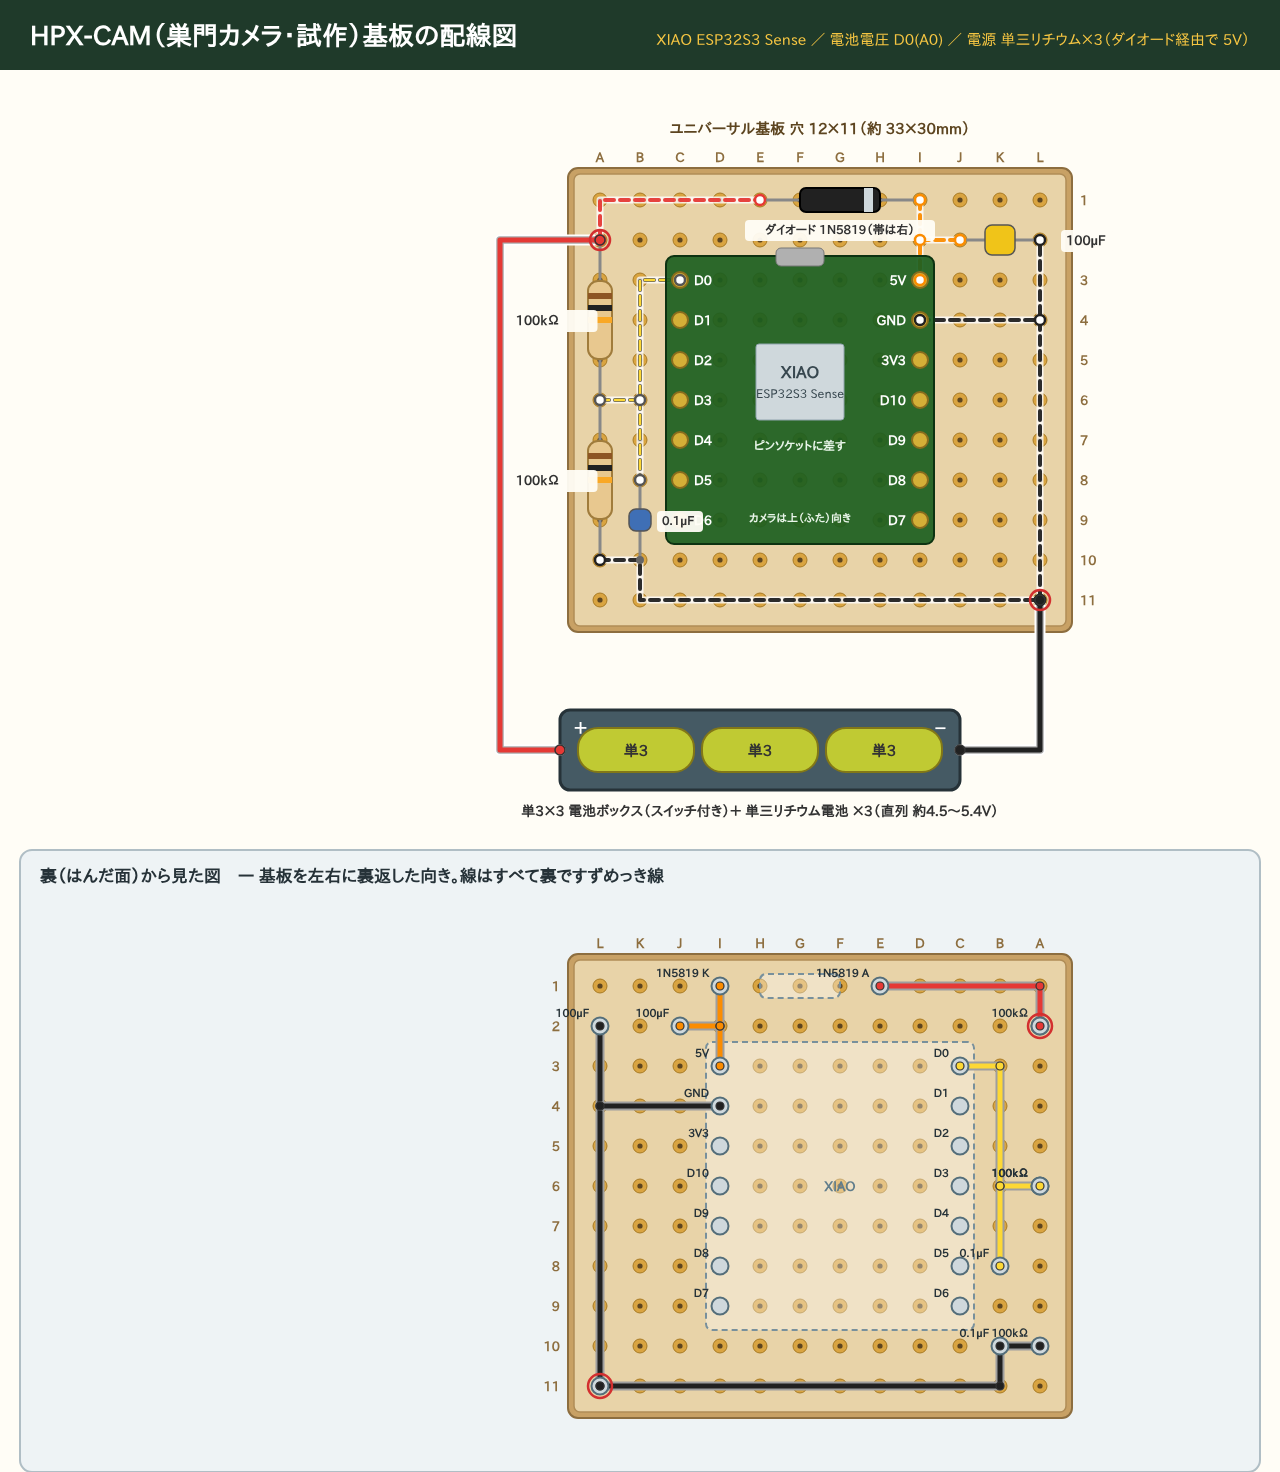
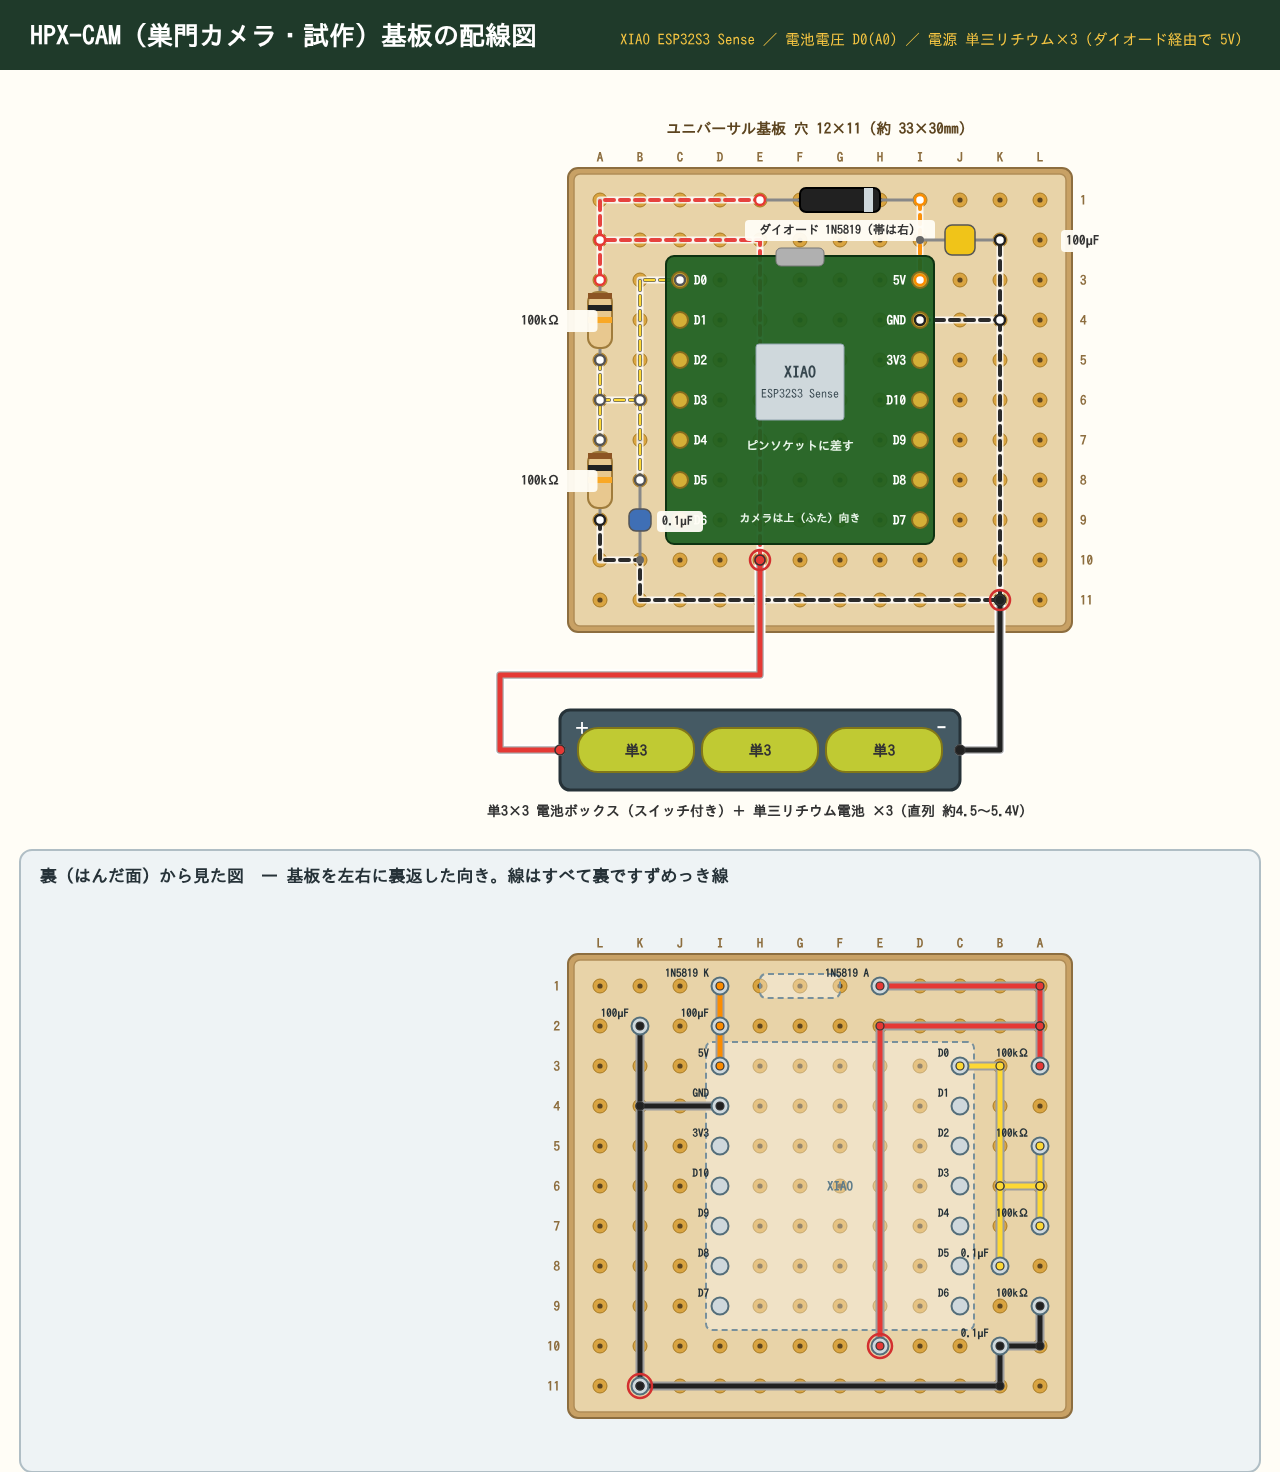
HPX-CAM の配線図を変更 (TARO 指定)
- 100µF を I2・K2 に、−の列を K 列に
- 100kΩ を 3穴 (A3〜A5、A7〜A9) に
- 電池−は K11、電池＋は E10 からチップの下を E2 → A2 へ

Claude-Session: https://claude.ai/code/session_01LCC9B3VoVWL7WDxMCJTnsZ

diff --git a/site/device-cam.html b/site/device-cam.html
@@ -252,11 +252,11 @@
       </figure>
       <div class="wtab"><h3>つなぐ線（穴の位置は 列の文字＋行の数字）</h3><div class="scroll"><table>
         <thead><tr><th>線</th><th>どこから（穴）</th><th>どこへ（穴）</th><th>役目</th></tr></thead>
-        <tbody><tr><td class="wc"><span class="sw" style="background:#e53935"></span>赤</td><td>電池ボックスの＋（A2 に直接はんだ付け）</td><td>A2 → A1 → E1（ダイオードのアノード）</td><td>電池＋。A2 は 100kΩ の上の足も</td></tr><tr><td class="wc"><span class="sw" style="background:#fb8c00"></span>橙</td><td>ダイオードのカソード（I1）</td><td>I1 → I2 → I3（XIAO 5V）、I2 → J2（100µF）</td><td>ダイオードを通った電池を 5V 端子へ</td></tr><tr><td class="wc"><span class="sw" style="background:#fdd835"></span>黄</td><td>100kΩ と 100kΩ の間（A6）</td><td>A6 → B6 → B3 → C3（XIAO D0）、B6 → B8（0.1µF）</td><td>電池の電圧を半分にして読む点</td></tr><tr><td class="wc"><span class="sw" style="background:#212121"></span>黒</td><td>下の 100kΩ（A10）</td><td>A10 → B10（0.1µF）→ B11 → L11</td><td>電池の−（L11 に直接はんだ付け）</td></tr><tr><td class="wc"><span class="sw" style="background:#212121"></span>黒</td><td>XIAO GND（I4）</td><td>I4 → L4、L11 → L4 → L2（100µF）</td><td>−の列</td></tr></tbody>
+        <tbody><tr><td class="wc"><span class="sw" style="background:#e53935"></span>赤</td><td>電池ボックスの＋（E10 に直接はんだ付け）</td><td>E10 → E2（チップの下を通す）→ A2 → A1 → E1（ダイオードのアノード）、A2 → A3（100kΩ）</td><td>電池＋</td></tr><tr><td class="wc"><span class="sw" style="background:#fb8c00"></span>橙</td><td>ダイオードのカソード（I1）</td><td>I1 → I2（100µF）→ I3（XIAO 5V）</td><td>ダイオードを通った電池を 5V 端子へ</td></tr><tr><td class="wc"><span class="sw" style="background:#fdd835"></span>黄</td><td>100kΩ と 100kΩ の間（A5・A7）</td><td>A5 → A6 → A7、A6 → B6 → B3 → C3（XIAO D0）、B6 → B8（0.1µF）</td><td>電池の電圧を半分にして読む点</td></tr><tr><td class="wc"><span class="sw" style="background:#212121"></span>黒</td><td>下の 100kΩ（A9）</td><td>A9 → A10 → B10（0.1µF）→ B11 → K11</td><td>電池の−（K11 に直接はんだ付け）</td></tr><tr><td class="wc"><span class="sw" style="background:#212121"></span>黒</td><td>XIAO GND（I4）</td><td>I4 → K4、K11 → K4 → K2（100µF）</td><td>−の列</td></tr></tbody>
       </table></div></div>
       <div class="wtab"><h3>部品の置き場所</h3><div class="scroll"><table>
         <thead><tr><th>部品</th><th>数</th><th>置き場所・メモ</th></tr></thead>
-        <tbody><tr><td>Seeed Studio XIAO ESP32S3 Sense（カメラ OV3660・microSD 枠付き。付属の外付けアンテナを付ける。秋月電子 2,660円）</td><td>1</td><td>C3〜I9 のソケットに差す。USB-C を上に向ける</td></tr><tr><td>ピンヘッダ 7ピン×2（XIAO 付属）＋ 分割ロングピンソケット 7ピン×2（基板側）</td><td>1組</td><td>C3〜C9・I3〜I9</td></tr><tr><td>（交換用・任意）OV5640 カメラ（XIAO ESP32S3 Sense 用、自動ピント）</td><td>1</td><td>近い巣門にピントを合わせたいとき。カメラの差し込み口で付け替える</td></tr><tr><td>microSD カード 32GB 以下（FAT32。例: LAZOS 8GB）</td><td>1</td><td>Sense 基板の枠に差す。写真をためる</td></tr><tr><td>ショットキーバリアダイオード 40V1A 1N5819（秋月電子 100円/10本）</td><td>1</td><td>E1（アノード）〜I1（カソード、帯の側）。寝かせて付ける</td></tr><tr><td>金属皮膜抵抗 100kΩ 1%</td><td>2</td><td>A2〜A6、A6〜A10（縦に寝かせて付ける）</td></tr><tr><td>積層セラミックコンデンサー 0.1µF 50V C0G 5mm</td><td>1</td><td>B8・B10（測る点のノイズよけ）</td></tr><tr><td>絶縁ラジアルリード型積層セラミックコンデンサー 100µF 6.3V 5mm</td><td>1</td><td>J2・L2（Wi-Fi で送る瞬間の電圧の下がりよけ）</td></tr><tr><td>単3×3 電池ボックス（リード線・フタ・スイッチ付、秋月電子 160円）／ 単三リチウム電池</td><td>1／3</td><td>＋の線を A2、−の線を L11 にはんだ付け</td></tr><tr><td>ユニバーサル基板（穴 12×11 以上）・すずめっき線</td><td>1</td><td>大きい基板を切って使ってもよい</td></tr><tr><td>ケース タカチ BCAP091207T（透明ふた、内寸 66×96×56.6mm。モノタロウ 1,398円）</td><td>1</td><td>カメラをふたに近づける</td></tr><tr><td>ポール取付金具 タカチ SSK-S1（モノタロウ 558円）</td><td>1</td><td>ケースを杭やポールに留める</td></tr><tr><td>屋外用ルーフ タカチ BRF-90G（モノタロウ 539円）</td><td>1</td><td>ケースの上に付ける雨・日よけ（中が熱くなりにくい）</td></tr><tr><td>乾燥剤（小袋）</td><td>少し</td><td>くもり止め</td></tr></tbody>
+        <tbody><tr><td>Seeed Studio XIAO ESP32S3 Sense（カメラ OV3660・microSD 枠付き。付属の外付けアンテナを付ける。秋月電子 2,660円）</td><td>1</td><td>C3〜I9 のソケットに差す。USB-C を上に向ける</td></tr><tr><td>ピンヘッダ 7ピン×2（XIAO 付属）＋ 分割ロングピンソケット 7ピン×2（基板側）</td><td>1組</td><td>C3〜C9・I3〜I9</td></tr><tr><td>（交換用・任意）OV5640 カメラ（XIAO ESP32S3 Sense 用、自動ピント）</td><td>1</td><td>近い巣門にピントを合わせたいとき。カメラの差し込み口で付け替える</td></tr><tr><td>microSD カード 32GB 以下（FAT32。例: LAZOS 8GB）</td><td>1</td><td>Sense 基板の枠に差す。写真をためる</td></tr><tr><td>ショットキーバリアダイオード 40V1A 1N5819（秋月電子 100円/10本）</td><td>1</td><td>E1（アノード）〜I1（カソード、帯の側）。寝かせて付ける</td></tr><tr><td>金属皮膜抵抗 100kΩ 1%</td><td>2</td><td>A3〜A5、A7〜A9（縦に寝かせて付ける）</td></tr><tr><td>積層セラミックコンデンサー 0.1µF 50V C0G 5mm</td><td>1</td><td>B8・B10（測る点のノイズよけ）</td></tr><tr><td>絶縁ラジアルリード型積層セラミックコンデンサー 100µF 6.3V 5mm</td><td>1</td><td>I2・K2（Wi-Fi で送る瞬間の電圧の下がりよけ）</td></tr><tr><td>単3×3 電池ボックス（リード線・フタ・スイッチ付、秋月電子 160円）／ 単三リチウム電池</td><td>1／3</td><td>＋の線を E10、−の線を K11 にはんだ付け</td></tr><tr><td>ユニバーサル基板（穴 12×11 以上）・すずめっき線</td><td>1</td><td>大きい基板を切って使ってもよい</td></tr><tr><td>ケース タカチ BCAP091207T（透明ふた、内寸 66×96×56.6mm。モノタロウ 1,398円）</td><td>1</td><td>カメラをふたに近づける</td></tr><tr><td>ポール取付金具 タカチ SSK-S1（モノタロウ 558円）</td><td>1</td><td>ケースを杭やポールに留める</td></tr><tr><td>屋外用ルーフ タカチ BRF-90G（モノタロウ 539円）</td><td>1</td><td>ケースの上に付ける雨・日よけ（中が熱くなりにくい）</td></tr><tr><td>乾燥剤（小袋）</td><td>少し</td><td>くもり止め</td></tr></tbody>
       </table></div></div>
       <div class="wnote"><h3>注意</h3><ul><li>上の図は部品を載せる面（表）から見たところ。部品はすべて表から差し、足を裏ではんだ付けする。線はすべて裏のすずめっき線。</li><li>下の「裏から見た図」が実際に配線する向き（左右が逆）。裏の線どうしは交わらない。</li><li>電池は ダイオード 1N5819 を通して XIAO の「5V」端子へ入れる（USB をつないだとき、USB の 5V が電池へ流れ込まないように）。</li><li>XIAO 裏の「BAT」パッドは充電式リチウムイオン電池用。乾電池は絶対につながない。</li><li>電池の電圧は ダイオードの前で 100kΩ・100kΩ で半分にして D0(A0) で読む（新品 5.4V で 2.7V）。この抵抗には いつも約27µA 流れる（1日 約0.65mAh）。</li><li>D8・D9・D10 は Sense 基板の microSD が使うので、ほかの部品につながない。</li><li>USB で書き込むときは、電池ボックスのスイッチを切る（ダイオードがあるので切り忘れても壊れにくいが、念のため）。</li><li>付属の Wi-Fi アンテナ（シール状）は XIAO の U.FL に差し、ケースの壁（金属のそば以外）に貼る。</li><li>ケースの中で、カメラ（Sense 基板）をふたのすぐ下に来るようにする（ふたの反射よけ）。</li><li>電池のもち（10分おきに撮影・未実測）: 24時間で 約3週間〜1か月半、昼12時間だけで 約1〜3か月。眠り中の電流しだい。</li><li>まだ組んで確かめていない。XIAO ESP32S3 Sense の眠り中の電流、1N5819 を入れたときの Wi-Fi 送信中の電圧は実物で測る。</li></ul></div>
       <div class="soonbox">組み立ての手順は、準備ができしだい掲載します。</div>

diff --git a/hardware/wiring/gen_pcb.py b/hardware/wiring/gen_pcb.py
@@ -996,7 +996,8 @@ def res_flat(a, b, label, bands, lpos, anchor="middle"):
     rec_pin(x1, y1, label); rec_pin(x2, y2, label)
     cx, cy = (x1 + x2) / 2, (y1 + y2) / 2
     horiz = y1 == y2
-    bw, bh = (78, 24) if horiz else (24, 78)
+    ln = min(78, abs(x2 - x1) + abs(y2 - y1) - 24)   # 足の間 2穴 (3穴に差す) のときは本体を短く (TARO 2026-11-21 HPX-CAM)
+    bw, bh = (ln, 24) if horiz else (24, ln)
     s.top.append(f'<line x1="{x1}" y1="{y1}" x2="{x2}" y2="{y2}" stroke="#888" stroke-width="3"/>')
     s.top.append(f'<rect x="{cx-bw/2}" y="{cy-bh/2}" width="{bw}" height="{bh}" rx="10" fill="#e8c88f" stroke="#a07c3c" stroke-width="2"/>')
     for i, c in enumerate(bands):
@@ -1434,23 +1435,26 @@ for x, y in ((x1, y1), (x2, y2)):
 rec_part((x1 + x2) / 2 - 40, y1 - 12, 80, 24, "")
 tag((x1 + x2) / 2, y1 + 34, "ダイオード 1N5819（帯は右）", 12, "middle", w=190)
 
-res_flat("A2", "A6", "100kΩ", ["#8d5524", "#212121", "#f9a825"], (OX - 40, H(0, R(4))[1] + 5), "end")
-res_flat("A6", "A10", "100kΩ", ["#8d5524", "#212121", "#f9a825"], (OX - 40, H(0, R(8))[1] + 5), "end")
+# TARO 2026-11-21: 100kΩ を 3穴 (A3〜A5・A7〜A9) に、100µF を I2・K2 に、−の列を K に、電池＋は E10・電池−は K11 から
+res_flat("A3", "A5", "100kΩ", ["#8d5524", "#212121", "#f9a825"], (OX - 40, H(0, R(4))[1] + 5), "end")
+res_flat("A7", "A9", "100kΩ", ["#8d5524", "#212121", "#f9a825"], (OX - 40, H(0, R(8))[1] + 5), "end")
 cap_flat(s, hole("B8"), hole("B10"), "0.1µF")
 tag(H(Lc("B"), 0)[0] + 22, H(0, R(9))[1] + 5, "0.1µF", 12, "start", w=46)
-cap_flat(s, hole("J2"), hole("L2"), "100µF", True)
+cap_flat(s, hole("I2"), hole("K2"), "100µF", True)
 tag(H(Lc("L"), 0)[0] + 26, H(0, R(2))[1] + 5, "100µF", w=52)
 
-w("red",    "A2", "A1", "E1")                      # 電池＋ → ダイオードのアノード（A2 で 100kΩ にも）
-w("orange", "I1", "I2", "I3")                      # ダイオードのカソード → XIAO 5V
-w("orange", "I2", "J2")                            # → 100µF
+w("red",    "E10", "E2", "A2")                     # 電池＋（E10）→ チップの下を通って E2 → A2
+w("red",    "A2", "A1", "E1")                      # → ダイオードのアノード
+w("red",    "A2", "A3")                            # → 上の 100kΩ
+w("orange", "I1", "I2", "I3")                      # ダイオードのカソード → XIAO 5V（I2 は 100µF の足）
+w("yellow", "A5", "A6", "A7")                      # 100kΩ と 100kΩ の間
 w("yellow", "A6", "B6", "B3", "C3")                # 測る点 → XIAO D0(A0)
 w("yellow", "B6", "B8")                            # → 0.1µF
-w("black",  "A10", "B10", "B11", "L11")            # 100kΩ・0.1µF の下 → 電池−
-w("black",  "L11", "L4", "L2")                     # −の列 → 100µF
-w("black",  "I4", "L4")                            # XIAO GND
+w("black",  "A9", "A10", "B10", "B11", "K11")      # 100kΩ・0.1µF の下 → 電池−
+w("black",  "K11", "K4", "K2")                     # −の列 → 100µF
+w("black",  "I4", "K4")                            # XIAO GND
 
-# 電池ボックス（単3×3、スイッチ付き）。＋の線を A2、−の線を L11 に直接はんだ付け
+# 電池ボックス（単3×3、スイッチ付き）。＋の線を E10、−の線を K11 に直接はんだ付け
 bx, by = OX - 40, OY + 10 * P + 110
 s.rect(bx, by, 400, 80, "#455a64", "#263238", 10, 3)
 for i in range(3):
@@ -1459,19 +1463,20 @@ for i in range(3):
 s.text(bx + 14, by + 24, "＋", 16, "start", "bold", "#fff")
 s.text(bx + 386, by + 24, "−", 18, "end", "bold", "#fff")
 s.text(bx + 200, by + 106, "単3×3 電池ボックス（スイッチ付き）＋ 単三リチウム電池 ×3（直列 約4.5〜5.4V）", 14, "middle", "bold")
-ta, tl = H(*hole("A2")), H(*hole("L11"))
-s.wire([(bx, by + 40), (bx - 60, by + 40), (bx - 60, ta[1]), ta], "red")
-s.wire([(bx + 400, by + 40), (tl[0], by + 40), tl], "black")
-solder_mark(s, *hole("A2")); solder_mark(s, *hole("L11"))
+ta, tl = H(*hole("E10")), H(*hole("K11"))
+yr = by - 35   # 基板と電池ボックスの間で横へ
+s.wire([(bx, by + 40), (bx - 60, by + 40), (bx - 60, yr), (ta[0], yr), ta], "red")
+s.wire([(bx + 400, by + 40), (bx + 440, by + 40), (bx + 440, yr), (tl[0], yr), tl], "black")
+solder_mark(s, *hole("E10")); solder_mark(s, *hole("K11"))
 
 yb = back_section(s, by + 140, "HPX-CAM_pcb.svg")
 y = table(s, 60, yb + 40, [
     ["線", "どこから（穴）", "どこへ（穴）", "役目"],
-    ["red", "電池ボックスの＋（A2 に直接はんだ付け）", "A2 → A1 → E1（ダイオードのアノード）", "電池＋。A2 は 100kΩ の上の足も"],
-    ["orange", "ダイオードのカソード（I1）", "I1 → I2 → I3（XIAO 5V）、I2 → J2（100µF）", "ダイオードを通った電池を 5V 端子へ"],
-    ["yellow", "100kΩ と 100kΩ の間（A6）", "A6 → B6 → B3 → C3（XIAO D0）、B6 → B8（0.1µF）", "電池の電圧を半分にして読む点"],
-    ["black", "下の 100kΩ（A10）", "A10 → B10（0.1µF）→ B11 → L11", "電池の−（L11 に直接はんだ付け）"],
-    ["black", "XIAO GND（I4）", "I4 → L4、L11 → L4 → L2（100µF）", "−の列"],
+    ["red", "電池ボックスの＋（E10 に直接はんだ付け）", "E10 → E2（チップの下を通す）→ A2 → A1 → E1（ダイオードのアノード）、A2 → A3（100kΩ）", "電池＋"],
+    ["orange", "ダイオードのカソード（I1）", "I1 → I2（100µF）→ I3（XIAO 5V）", "ダイオードを通った電池を 5V 端子へ"],
+    ["yellow", "100kΩ と 100kΩ の間（A5・A7）", "A5 → A6 → A7、A6 → B6 → B3 → C3（XIAO D0）、B6 → B8（0.1µF）", "電池の電圧を半分にして読む点"],
+    ["black", "下の 100kΩ（A9）", "A9 → A10 → B10（0.1µF）→ B11 → K11", "電池の−（K11 に直接はんだ付け）"],
+    ["black", "XIAO GND（I4）", "I4 → K4、K11 → K4 → K2（100µF）", "−の列"],
 ], [100, 320, 420, 320], "つなぐ線（穴の位置は 列の文字＋行の数字）")
 y = table(s, 60, y + 50, [
     ["部品", "数", "置き場所・メモ"],
@@ -1480,10 +1485,10 @@ y = table(s, 60, y + 50, [
     ["（交換用・任意）OV5640 カメラ（XIAO ESP32S3 Sense 用、自動ピント）", "1", "近い巣門にピントを合わせたいとき。カメラの差し込み口で付け替える"],
     ["microSD カード 32GB 以下（FAT32。例: LAZOS 8GB）", "1", "Sense 基板の枠に差す。写真をためる"],
     ["ショットキーバリアダイオード 40V1A 1N5819（秋月電子 100円/10本）", "1", "E1（アノード）〜I1（カソード、帯の側）。寝かせて付ける"],
-    ["金属皮膜抵抗 100kΩ 1%", "2", "A2〜A6、A6〜A10（縦に寝かせて付ける）"],
+    ["金属皮膜抵抗 100kΩ 1%", "2", "A3〜A5、A7〜A9（縦に寝かせて付ける）"],
     ["積層セラミックコンデンサー 0.1µF 50V C0G 5mm", "1", "B8・B10（測る点のノイズよけ）"],
-    ["絶縁ラジアルリード型積層セラミックコンデンサー 100µF 6.3V 5mm", "1", "J2・L2（Wi-Fi で送る瞬間の電圧の下がりよけ）"],
-    ["単3×3 電池ボックス（リード線・フタ・スイッチ付、秋月電子 160円）／ 単三リチウム電池", "1／3", "＋の線を A2、−の線を L11 にはんだ付け"],
+    ["絶縁ラジアルリード型積層セラミックコンデンサー 100µF 6.3V 5mm", "1", "I2・K2（Wi-Fi で送る瞬間の電圧の下がりよけ）"],
+    ["単3×3 電池ボックス（リード線・フタ・スイッチ付、秋月電子 160円）／ 単三リチウム電池", "1／3", "＋の線を E10、−の線を K11 にはんだ付け"],
     ["ユニバーサル基板（穴 12×11 以上）・すずめっき線", "1", "大きい基板を切って使ってもよい"],
     ["ケース タカチ BCAP091207T（透明ふた、内寸 66×96×56.6mm。モノタロウ 1,398円）", "1", "カメラをふたに近づける"],
     ["ポール取付金具 タカチ SSK-S1（モノタロウ 558円）", "1", "ケースを杭やポールに留める"],
